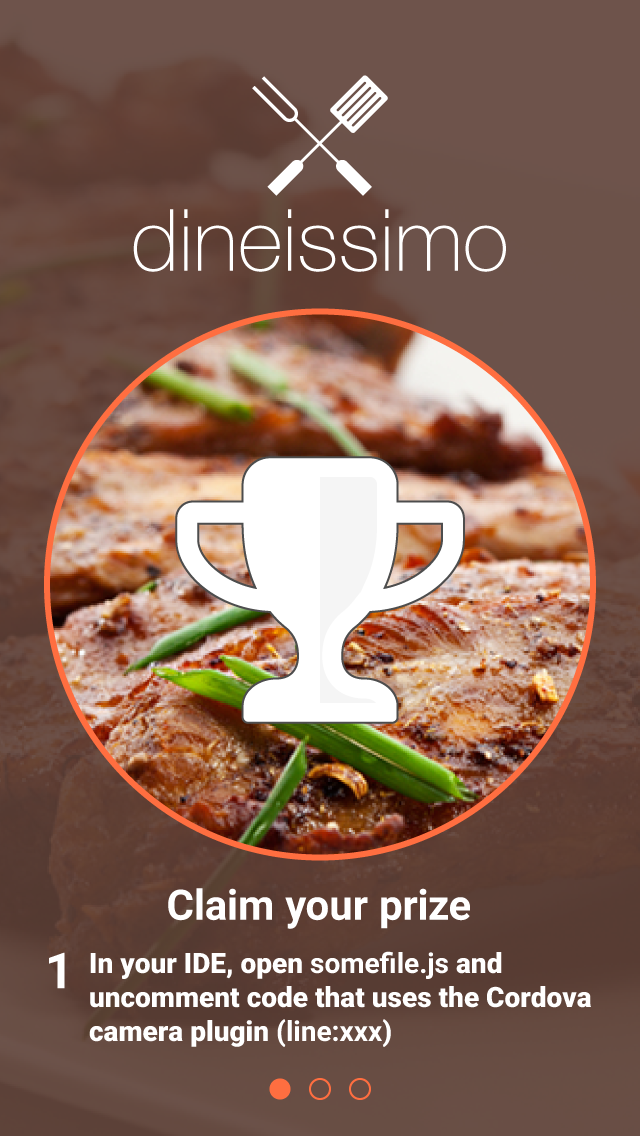
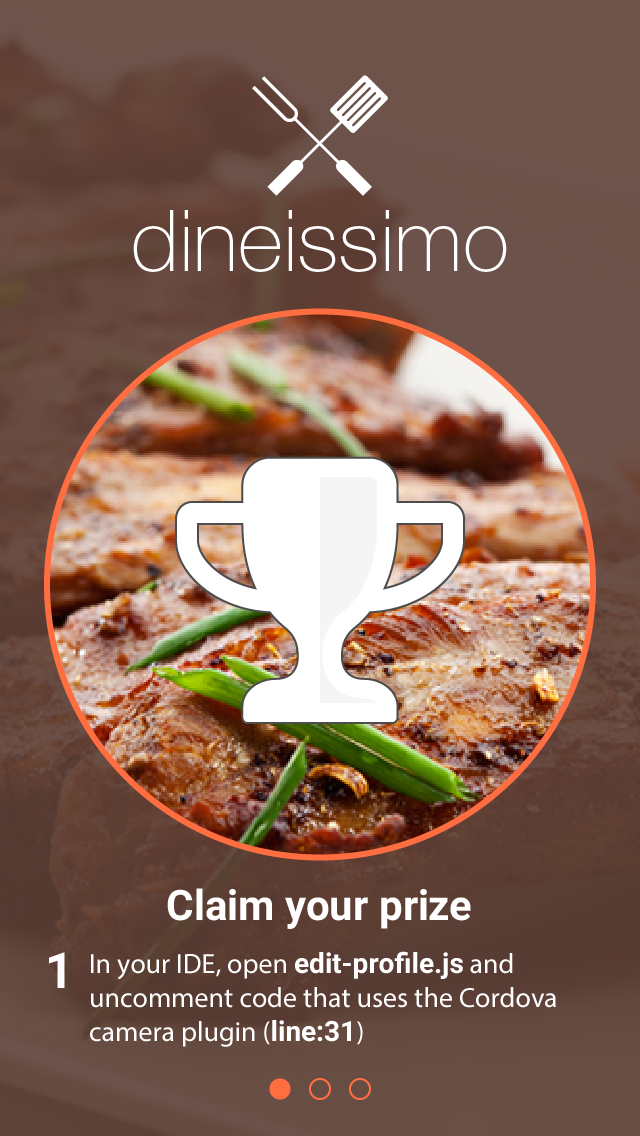
Small changes to put in the linenumbers for the instructions

diff --git a/app/views/claim-your-prize.html b/app/views/claim-your-prize.html
@@ -14,7 +14,7 @@
             <div class="left">
                 <h1>1</h1>
             </div>
-            <p>In your IDE, open somefile.js and uncomment the code that uses the Cordova camera plugin(<strong>line:xxx</strong>)</p>
+            <p>In your IDE, open <strong>edit-profile.js</strong> and uncomment the code that uses the Cordova camera plugin(<strong>line:31</strong>)</p>
         </div>
         <div class="bottom-border">
             <img src="styles/images/threefingerclaim.png" class="right claim-img" />

diff --git a/app/views/thanks.html b/app/views/thanks.html
@@ -16,7 +16,7 @@
         <div class="left">
             <span id="prize" class="fa fa-gift orange"></span>
         </div>
-        <p>Want to continue exploring?  We've left a surprise for you in index.html on line 78. check it out</p>
+        <p>Want to continue exploring?  We've left a surprise for you in index.html on line 78. Check it out</p>
     </div>
     
         
